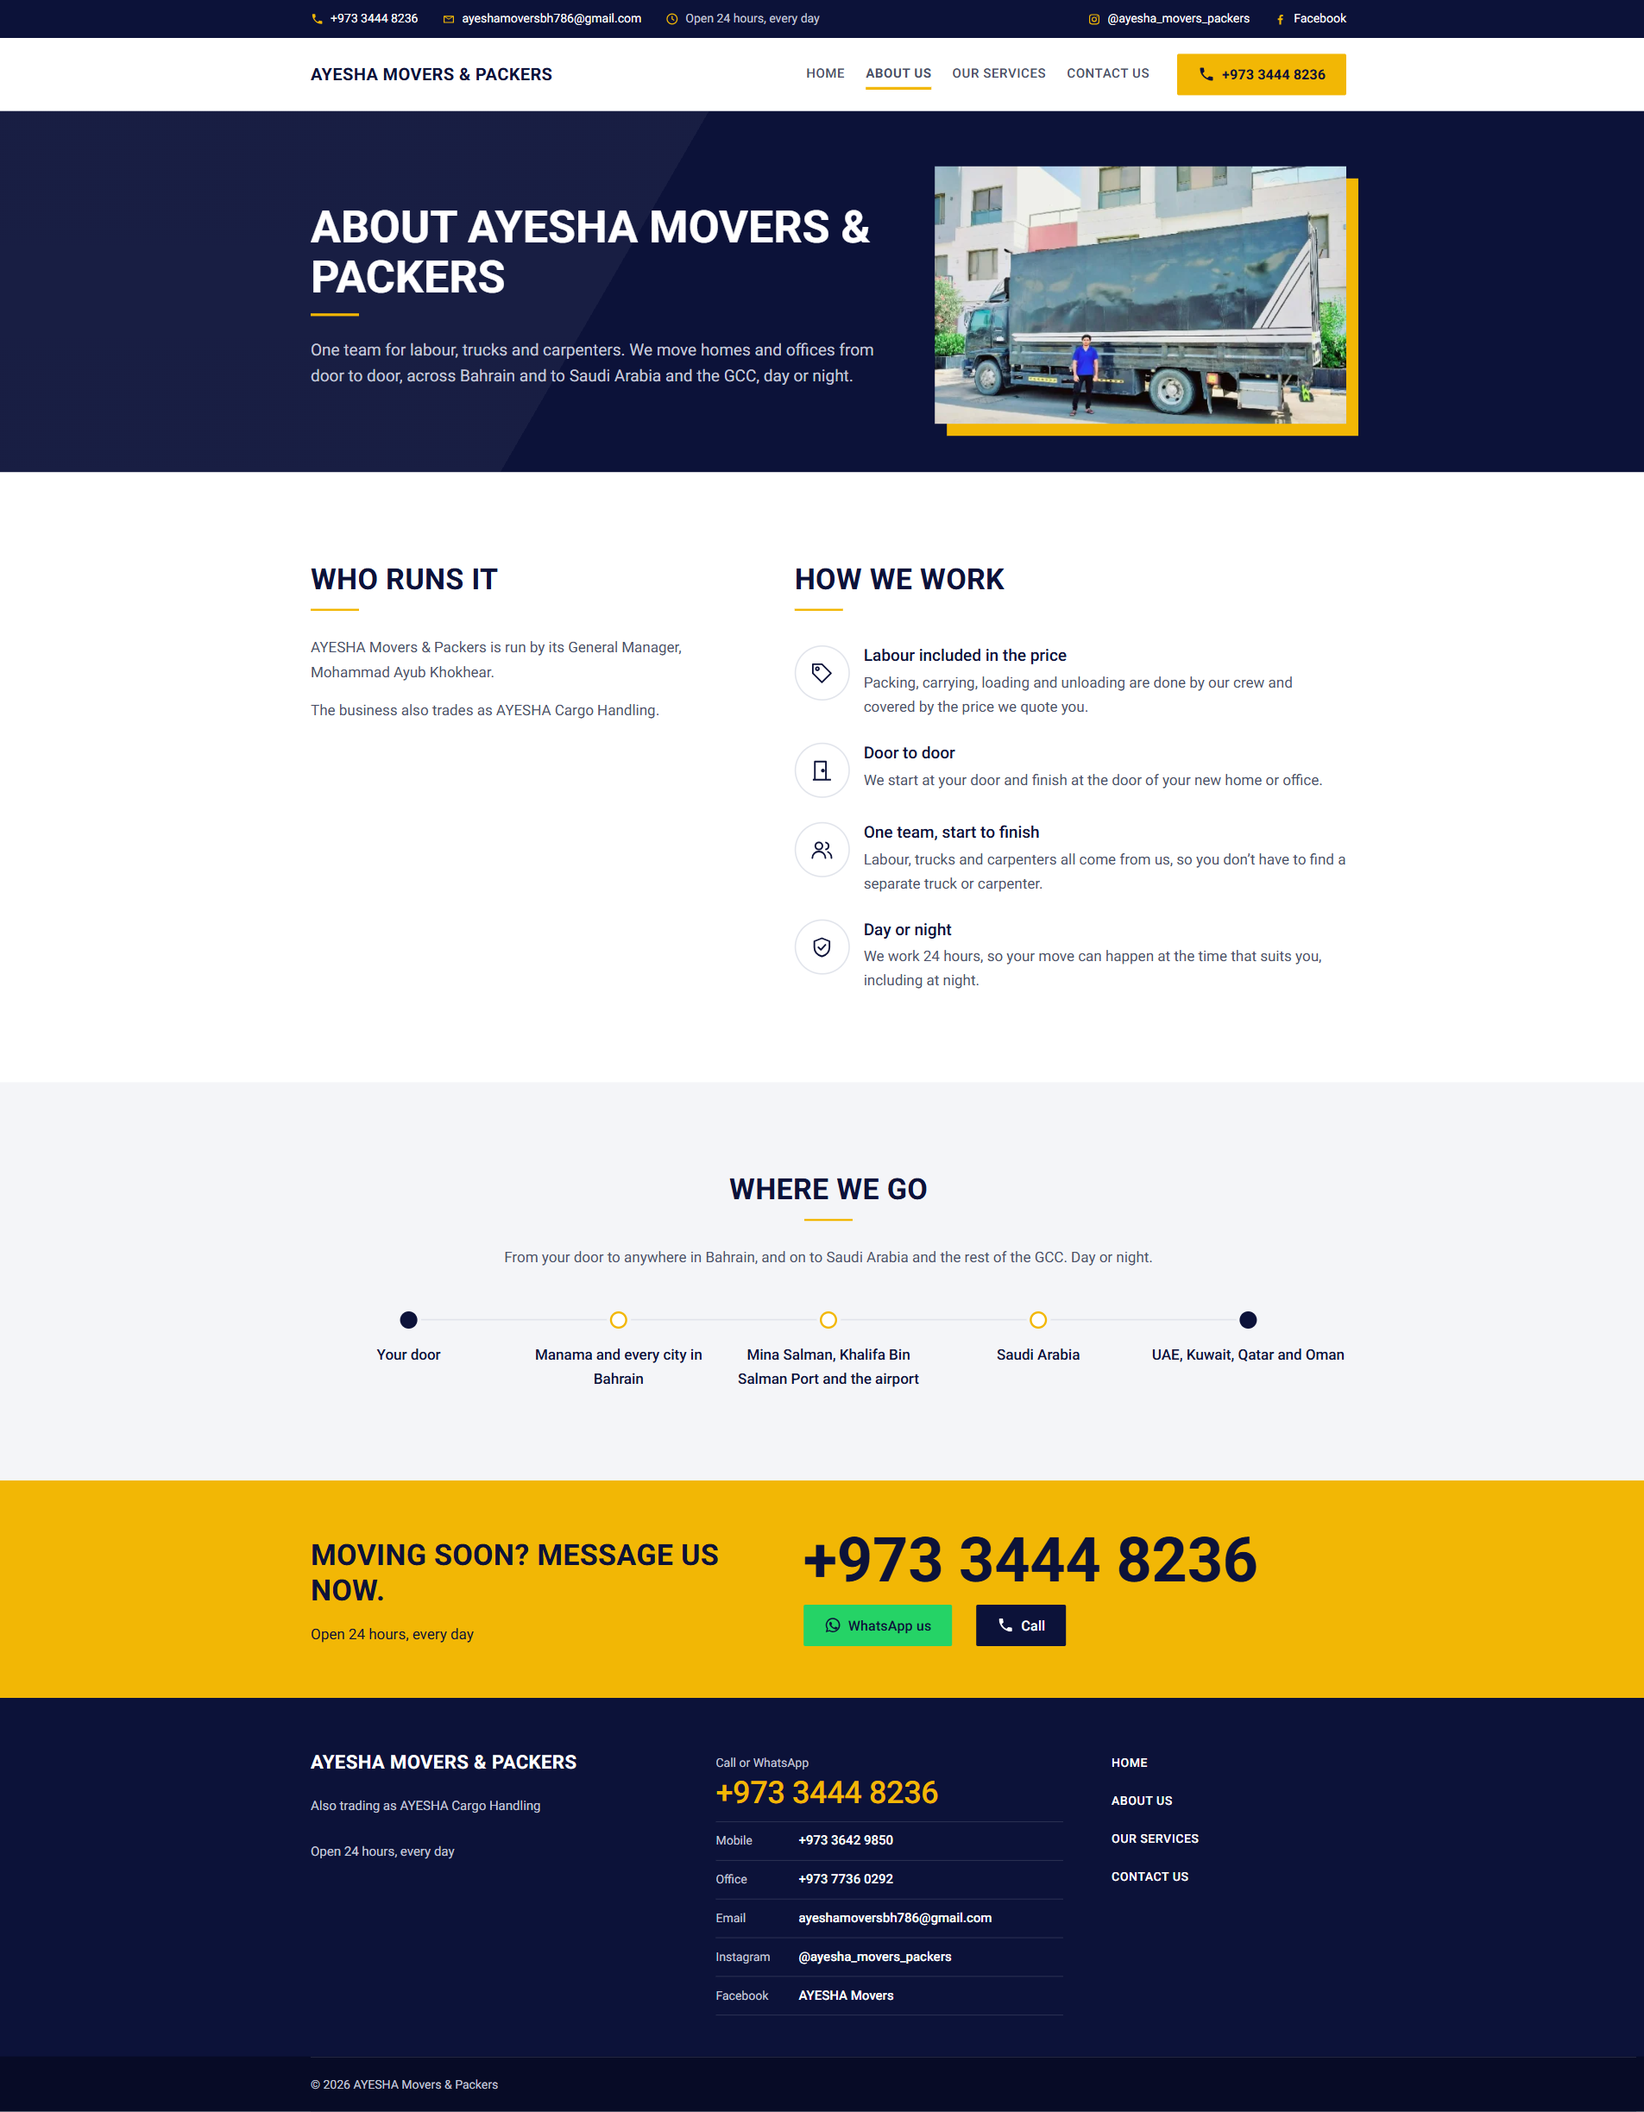
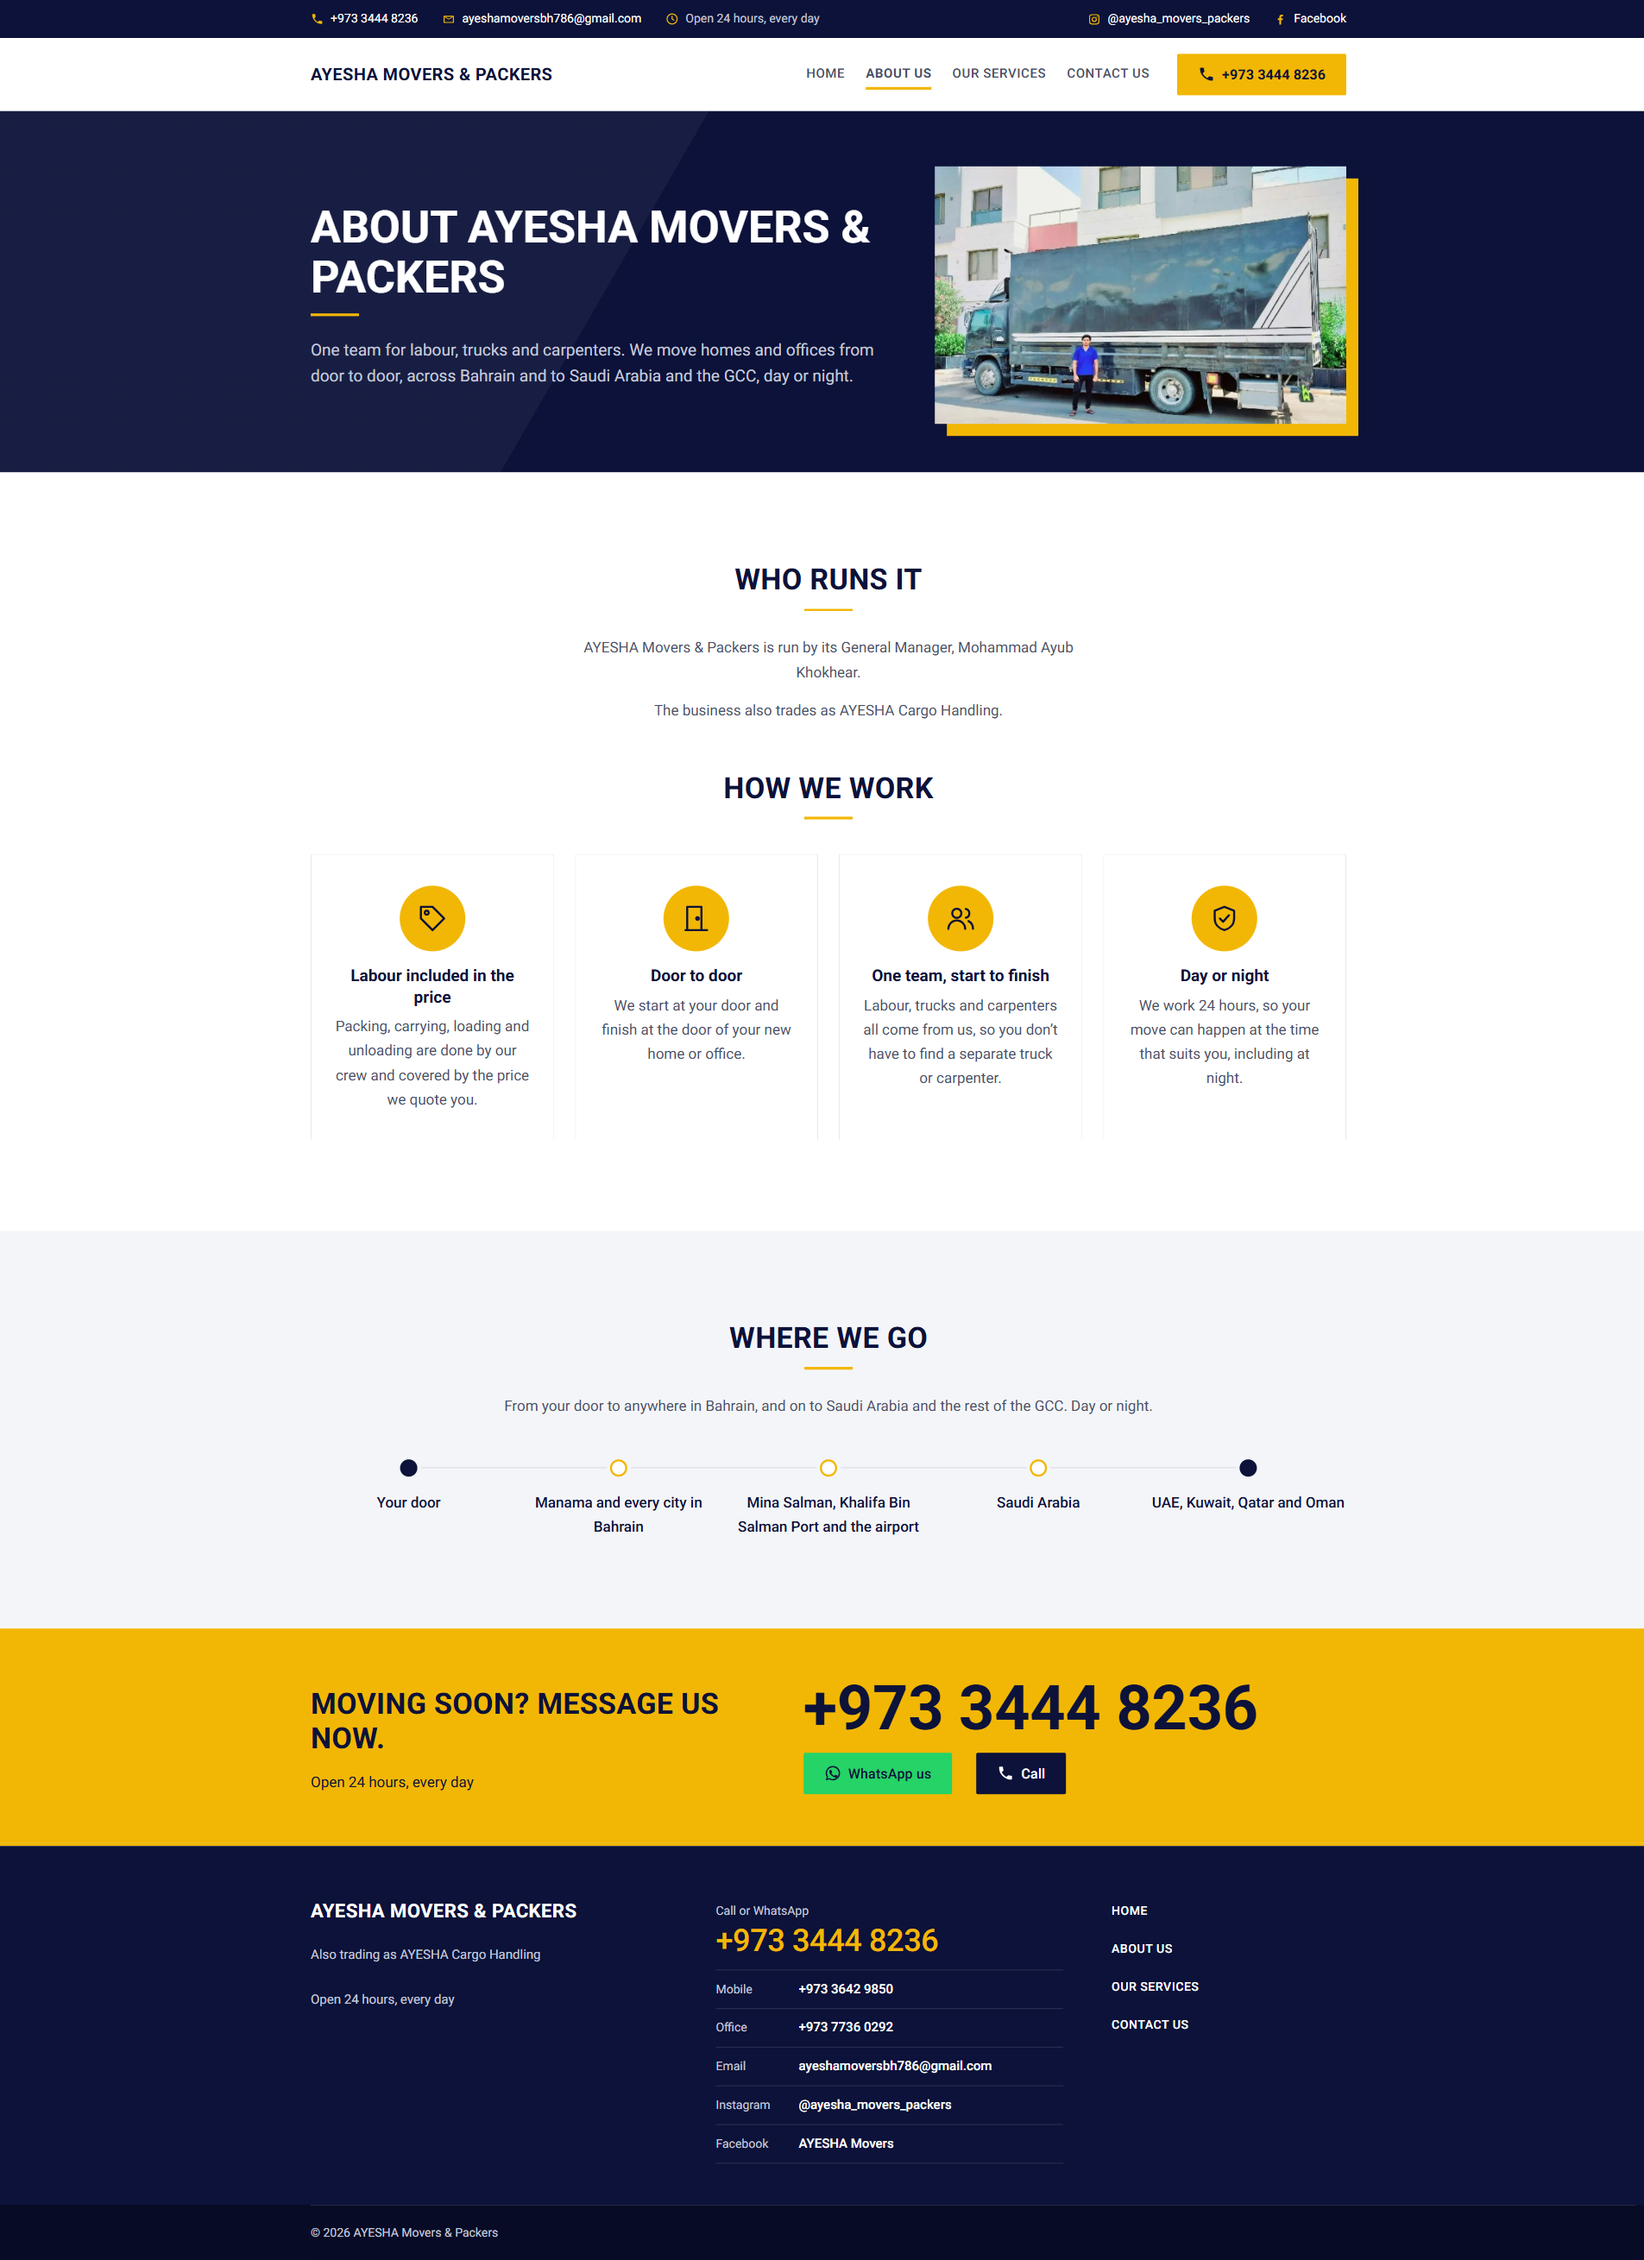
Phase 7: About Us middle section as one centred column with commitment cards; titles left on phones where lists are

diff --git a/wp-content/themes/ayesha-movers/assets/css/theme.css b/wp-content/themes/ayesha-movers/assets/css/theme.css
@@ -1405,6 +1405,71 @@ section.ayesha-questions > .ayesha-faq { max-inline-size: 820px; margin-inline: 
 	body:not(.editor-styles-wrapper) .ayesha-mobile-only { display: none; }
 }
 
+/* "Who runs it" + "How we work": one centred column like Home's "What we do" (no empty half beside
+   the short "Who runs it"), and the four commitments as cards with the icon in a gold circle. */
+.wp-block-columns.ayesha-about-team__columns {
+	flex-direction: column;
+	flex-wrap: nowrap !important;
+	align-items: stretch !important;
+	gap: 3.5rem !important;
+}
+
+.wp-block-columns.ayesha-about-team__columns > .wp-block-column { flex-basis: auto !important; width: 100%; }
+
+.ayesha-about-team h2 { text-align: center; }
+.ayesha-about-team h2::after { left: 50%; transform: translateX(-50%); }
+.ayesha-about-who > p { margin-inline: auto !important; max-inline-size: 60ch; text-align: center; }
+
+.ayesha-about-how > .ayesha-reasons {
+	display: grid;
+	grid-template-columns: 1fr;
+	gap: 1.5rem;
+	margin-block-start: 2.5rem !important;
+}
+
+@media (min-width: 640px) { .ayesha-about-how > .ayesha-reasons { grid-template-columns: repeat(2, minmax(0, 1fr)); } }
+@media (min-width: 1100px) { .ayesha-about-how > .ayesha-reasons { grid-template-columns: repeat(4, minmax(0, 1fr)); } }
+
+.ayesha-about-how .ayesha-reason {
+	position: relative;
+	min-height: 0;
+	box-sizing: border-box;
+	padding: calc(2.25rem + 76px + 1rem) 1.5rem 2rem;
+	background: #fff;
+	border: 1px solid var(--ayesha-line);
+	border-bottom: 3px solid transparent;
+	border-radius: 2px;
+	text-align: center;
+	transition: transform 200ms ease, box-shadow 200ms ease, border-color 200ms ease;
+}
+
+/* The gold circle (::after) and the icon on it (::before). */
+.ayesha-about-how .ayesha-reason::after {
+	top: 2.25rem;
+	left: calc(50% - 38px);
+	width: 76px;
+	height: 76px;
+	border: 0;
+	background: var(--ayesha-gold);
+}
+
+.ayesha-about-how .ayesha-reason::before {
+	z-index: 1;
+	top: calc(2.25rem + 20px);
+	left: calc(50% - 18px);
+	width: 36px;
+	height: 36px;
+}
+
+.ayesha-about-how .ayesha-reason h3 { font-size: 1.1875rem !important; font-weight: 700; }
+.ayesha-about-how .ayesha-reason > * + * { margin-block-start: 0.5rem; }
+
+@media (hover: hover) and (prefers-reduced-motion: no-preference) {
+	.ayesha-about-how .ayesha-reason:hover { transform: translateY(-6px); box-shadow: 0 14px 30px rgb(12 18 57 / 0.12); border-bottom-color: var(--ayesha-gold); }
+}
+
+.ayesha-about-how > .ayesha-about-how__photo { margin-inline: auto; }
+
 
 /* ---- Contact Us: contact rows (left) and the quote form (right), on light grey ---- */
 .ayesha-contact {
@@ -1553,6 +1618,14 @@ body:not(.editor-styles-wrapper) .ayesha-contact__columns:not(:has(.ayesha-conta
 
 @media (min-width: 960px) and (min-height: 640px) {
 	.ayesha-contact__aside { position: sticky; top: 1.75rem; align-self: flex-start; }
+}
+
+/* Phones and tablets: "How a move works" and "Where we go" show their steps and stops as a
+   left-aligned list, so their title and intro line up on the left as well (centred from 960px). */
+@media (max-width: 959.98px) {
+	:is(.ayesha-how, .ayesha-where) > h2,
+	.ayesha-where > p { text-align: left !important; margin-inline: 0 !important; }
+	:is(.ayesha-how, .ayesha-where) > h2::after { left: 0 !important; transform: none !important; }
 }
 
 /* ---------------------------------------------------------------

diff --git a/PROGRESS.md b/PROGRESS.md
@@ -71,6 +71,7 @@ In the Media Library, the tags are prefixed to the title (`[DO NOT USE]`, `[PLAC
   - **Sixth round (2026-10-06):** "Best way to reply" removed from the Contact Us form (new block setting **Form parts → Ask "Best way to reply"**, off on Contact Us; the question is kept and comes back when switched on), and the choice tiles aligned across the whole form: every tile has the same 1px edge, the selected one a 2px navy edge drawn inside plus a light tint, the text keeps its weight (so the tile no longer grows), and tiles in a row are equal width.
   - **Seventh round (2026-10-06, user screenshot of Home on a wide screen):** two Home blocks left the 1200px content column on screens wider than 1280px: the "What we do" card grid (full screen width) and the "How a move works" steps (started at the column but ran to the right edge). Both CSS rules fixed; every block on all 4 pages now stays within the header's column at 375, 768, 1280, 1440, 1920 and 2560px.
   - **Eighth round (2026-10-06, "follow site-home-1920.png" = Services cards like Home):** the six Our Services cards now use Home's card look: white on light grey, icon in a gold circle, centred title and text, the "What's included" list as a centred block with left-aligned ticks, the WhatsApp button at the foot of the card (lined up across each row), hover lift; 3 across from 1100px, 2 from 640px, 1 on phones. CSS only; no content or anchors changed.
+  - **Ninth round (2026-10-06, About Us check):** "Who runs it" + "How we work" made one centred column (on computers the short "Who runs it" left a large empty half beside "How we work"); the four commitments are now cards like Home's (icon in a gold circle, centred, hover lift; 4 across from 1100px, 2 from 640px, 1 on phones). Phones and tablets: "How a move works" and "Where we go" (Home and About) now put their title and intro on the left, in line with their left-aligned list (centred from 960px). CSS only.
 - **Next step:** the user reviews `phase-7-design`; after approval: remove the junctions (`rmdir`), restore the main checkout's folders, merge into `main`, push, smoke-test. Then Phase 8.
 - **Last completed:** Phase 6 (Contact Us + quote form + email), approved and merged into `main` 2026-10-03 at 497997f (fast-forward); smoke test passed (see Test results › Phase 6 › Post-merge smoke test).
 - **Test data kept on the local site (user decision 2026-10-03):** 19 test enquiries AYM-261003-001 … 019 and AYM-261006-001 (015–019 and 261006-001 sent in Phase 7: "Phase7 Test", "Phase7b Test", "Short NoMsg Test", "Short Msg <b>Test</b>", "Full Form Test") and WP Mail Logging rows 4–28 (row 27 went to the made-up address shorttest@example.com; locally nothing is delivered).
@@ -587,4 +588,13 @@ Screenshots: `services-cards-{375,768,1280,1920}.png`, `site-services-{375,768,1
 | G3 | Icons | One per card | 6/6 | Pass |
 | G4 | Anchors | `#house-shifting` … `#cargo` land on their headings | All 6 at 32 px from the top | Pass |
 | G5 | Horizontal scroll; axe | 0 px; 0 serious/critical | 0 px at 375/768/1280/1920; only the known moderate `region` | Pass |
+
+#### Phase 7, ninth round (About Us; run 2026-10-06)
+Screenshots: `site-about-{375,768,1280,1920}.png`, `site-home-{375,768,1280,1920}.png`.
+
+| # | Test | Expected | Result | Pass/Fail |
+|---|---|---|---|---|
+| H1 | Commitment cards per row | 1 / 2 / 4 / 4 | 375: 4 rows of 1, 768: 2 rows of 2, 1280 and 1920: 1 row of 4 | Pass |
+| H2 | Inside the header's column | Nothing outside | About and Home at 375, 768, 1280, 1920: nothing outside | Pass |
+| H3 | Horizontal scroll; axe | 0 px; 0 serious/critical | 0 px; only the known moderate `region` (About and Home, 4 widths) | Pass |
 
